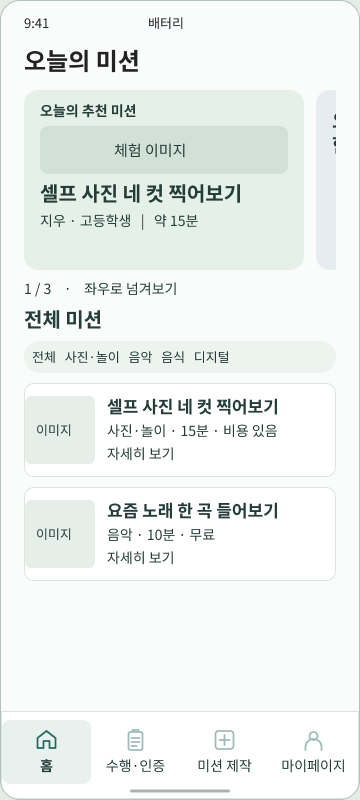
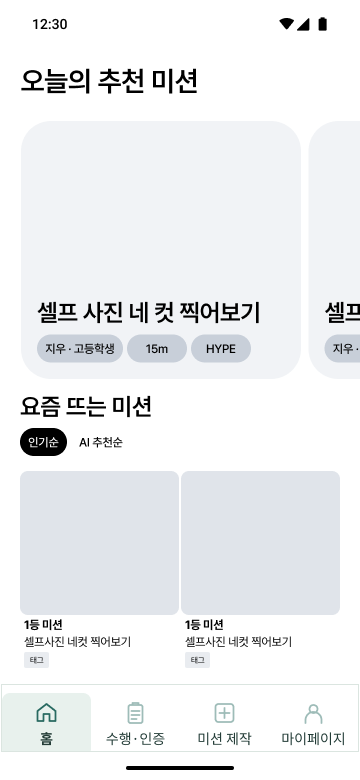
[docs/#3] README 화면 4개 정리 및 미션 제작 상태 표시

diff --git a/README.md b/README.md
@@ -10,13 +10,9 @@
 
 홈에서 미션을 탐색하고 담은 뒤, 미션 수행·인증 탭에서 도전을 완료합니다. 미션 제작과 마이페이지까지의 화면 흐름을 확인할 수 있습니다.
 
-| 홈 · 미션 탐색 | 미션 상세 · 담기 | 담은 미션 목록 |
-| :---: | :---: | :---: |
-| <img src="docs/images/wireframe-home.png" alt="홈 · 미션 탐색" width="240" /> | <img src="docs/images/wireframe-mission-detail.png" alt="미션 상세 · 담기" width="240" /> | <img src="docs/images/wireframe-my-missions.png" alt="담은 미션 목록" width="240" /> |
-
-| 미션 수행 · 인증 | 미션 제작 | 마이페이지 |
-| :---: | :---: | :---: |
-| <img src="docs/images/wireframe-mission-certification.png" alt="미션 수행 · 인증" width="240" /> | <img src="docs/images/wireframe-mission-create.png" alt="미션 제작" width="240" /> | <img src="docs/images/wireframe-mypage.png" alt="마이페이지" width="240" /> |
+| 홈 화면 | 수행·인증 화면 | 미션 제작 화면 | 마이페이지 화면 |
+| :---: | :---: | :---: | :---: |
+| <img src="docs/images/wireframe-home.png" alt="홈 화면" width="240" /> | <img src="docs/images/wireframe-mission-certification.png" alt="수행·인증 화면" width="240" /> | 아직 제작 미완료 | <img src="docs/images/wireframe-mypage.png" alt="마이페이지 화면" width="240" /> |
 
 ## 👥 팀원 및 역할
 
